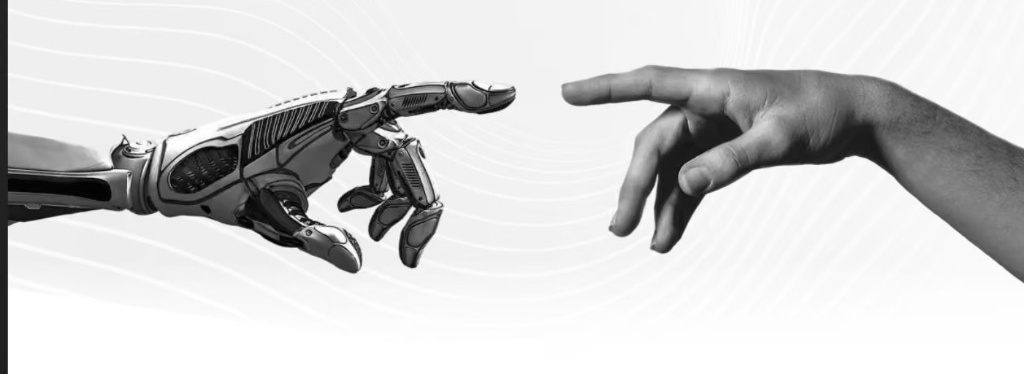
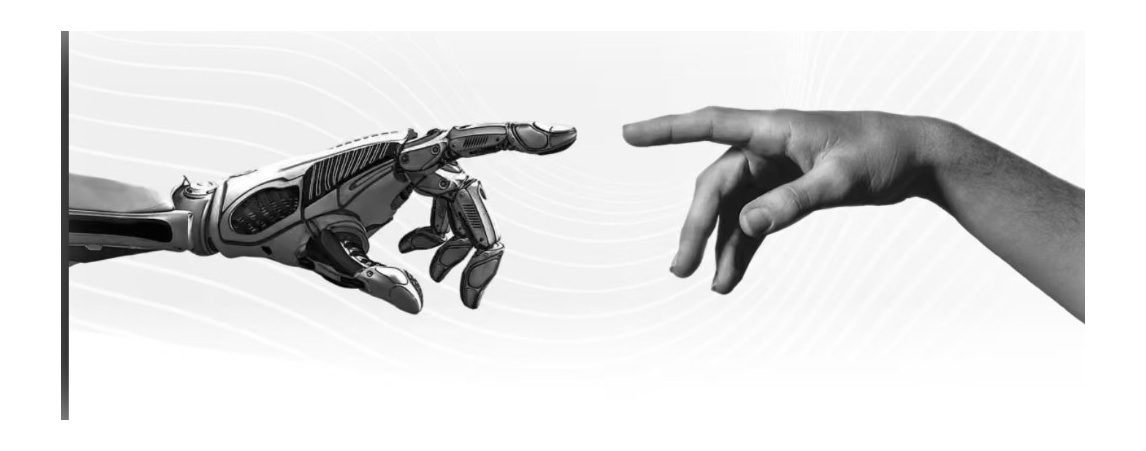
Blend hero art full-bleed into the page with soft edge fades.
No card frame — hands dissolve into the wave background like the reference.

Changed region(s): [[0.0, 0.0, 1.0, 1.0]]

diff --git a/components/LandingPage.tsx b/components/LandingPage.tsx
@@ -82,9 +82,9 @@ export function LandingPage() {
       </header>
 
       <main id="main">
-        {/* Hero — matches reference: CTAs over concentric waves + hands */}
-        <section className="hero-waves relative overflow-hidden px-4 pb-10 pt-14 text-center sm:px-6 sm:pb-14 sm:pt-16">
-          <div className="relative z-10 mx-auto flex w-full max-w-3xl flex-col items-center">
+        {/* Hero — full-bleed art blended into waves (no card / no hard edges) */}
+        <section className="hero-waves relative isolate overflow-hidden pt-14 text-center sm:pt-16">
+          <div className="relative z-10 mx-auto flex w-full max-w-3xl flex-col items-center px-4 sm:px-6">
             <PillTag label="Verified by Kane CLI" />
 
             <h1 className="mt-6 text-balance text-4xl font-semibold tracking-tight text-ink sm:text-5xl sm:leading-[1.08] lg:text-[3.5rem]">
@@ -106,37 +106,40 @@ export function LandingPage() {
             </div>
           </div>
 
-          <div className="relative z-10 mx-auto mt-6 w-full max-w-5xl sm:mt-2">
+          {/* Edge-to-edge art — CSS + JPEG vignette dissolve into page white */}
+          <div className="hero-art-flow relative z-0 mt-2 w-screen max-w-none left-1/2 -translate-x-1/2 sm:mt-0">
             <Image
               src="/hero.jpg"
-              alt="Robot hand and human hand reaching toward each other on a soft topographic wave background"
-              width={1024}
-              height={374}
+              alt="Robot hand and human hand reaching toward each other"
+              width={1146}
+              height={451}
               priority
-              className="mx-auto h-auto w-full max-w-5xl object-contain object-center"
-              sizes="(max-width: 1024px) 100vw, 1024px"
+              sizes="100vw"
+              className="hero-art-img h-auto w-full select-none object-cover object-center"
             />
           </div>
 
-          <p className="relative z-10 mt-6 text-xs font-medium tracking-wide text-steel sm:mt-8">
-            Powered by Kane CLI · Works with Claude Code, Cursor, Codex
-          </p>
-          <ul className="relative z-10 mt-5 flex flex-wrap items-center justify-center gap-6 sm:gap-10">
-            {["Kane CLI", "Claude Code", "Cursor", "Codex"].map((name) => (
-              <li
-                key={name}
-                className="flex items-center gap-2 text-sm font-semibold text-ink/65"
-              >
-                <span
-                  className="flex h-7 w-7 items-center justify-center rounded-[6px] border border-steel-line bg-paper text-[10px] font-bold"
-                  aria-hidden="true"
+          <div className="relative z-10 mx-auto px-4 pb-14 pt-2 sm:px-6 sm:pb-16">
+            <p className="text-xs font-medium tracking-wide text-steel">
+              Powered by Kane CLI · Works with Claude Code, Cursor, Codex
+            </p>
+            <ul className="mt-5 flex flex-wrap items-center justify-center gap-6 sm:gap-10">
+              {["Kane CLI", "Claude Code", "Cursor", "Codex"].map((name) => (
+                <li
+                  key={name}
+                  className="flex items-center gap-2 text-sm font-semibold text-ink/65"
                 >
-                  {name.charAt(0)}
-                </span>
-                {name}
-              </li>
-            ))}
-          </ul>
+                  <span
+                    className="flex h-7 w-7 items-center justify-center rounded-[6px] border border-steel-line bg-paper text-[10px] font-bold"
+                    aria-hidden="true"
+                  >
+                    {name.charAt(0)}
+                  </span>
+                  {name}
+                </li>
+              ))}
+            </ul>
+          </div>
         </section>
 
         {/* How it works */}

diff --git a/app/globals.css b/app/globals.css
@@ -62,6 +62,26 @@ body {
   background-repeat: no-repeat;
 }
 
+/* Full-bleed hero art — no card / border; dissolves into page white */
+.hero-art-flow {
+  width: 100vw;
+}
+
+.hero-art-img {
+  display: block;
+  width: 100%;
+  max-height: min(58vh, 560px);
+  /* Soft vignette — no hard JPEG rectangle on the page */
+  -webkit-mask-image:
+    linear-gradient(to right, transparent 0%, #000 6%, #000 94%, transparent 100%),
+    linear-gradient(to bottom, transparent 0%, #000 10%, #000 82%, transparent 100%);
+  mask-image:
+    linear-gradient(to right, transparent 0%, #000 6%, #000 94%, transparent 100%),
+    linear-gradient(to bottom, transparent 0%, #000 10%, #000 82%, transparent 100%);
+  -webkit-mask-composite: source-in;
+  mask-composite: intersect;
+}
+
 @layer components {
   .pill-tag {
     @apply inline-flex items-center gap-2 rounded-full border border-steel-line bg-paper px-3.5 py-1.5 text-[11px] font-semibold uppercase tracking-[0.08em] text-ink shadow-pill;
